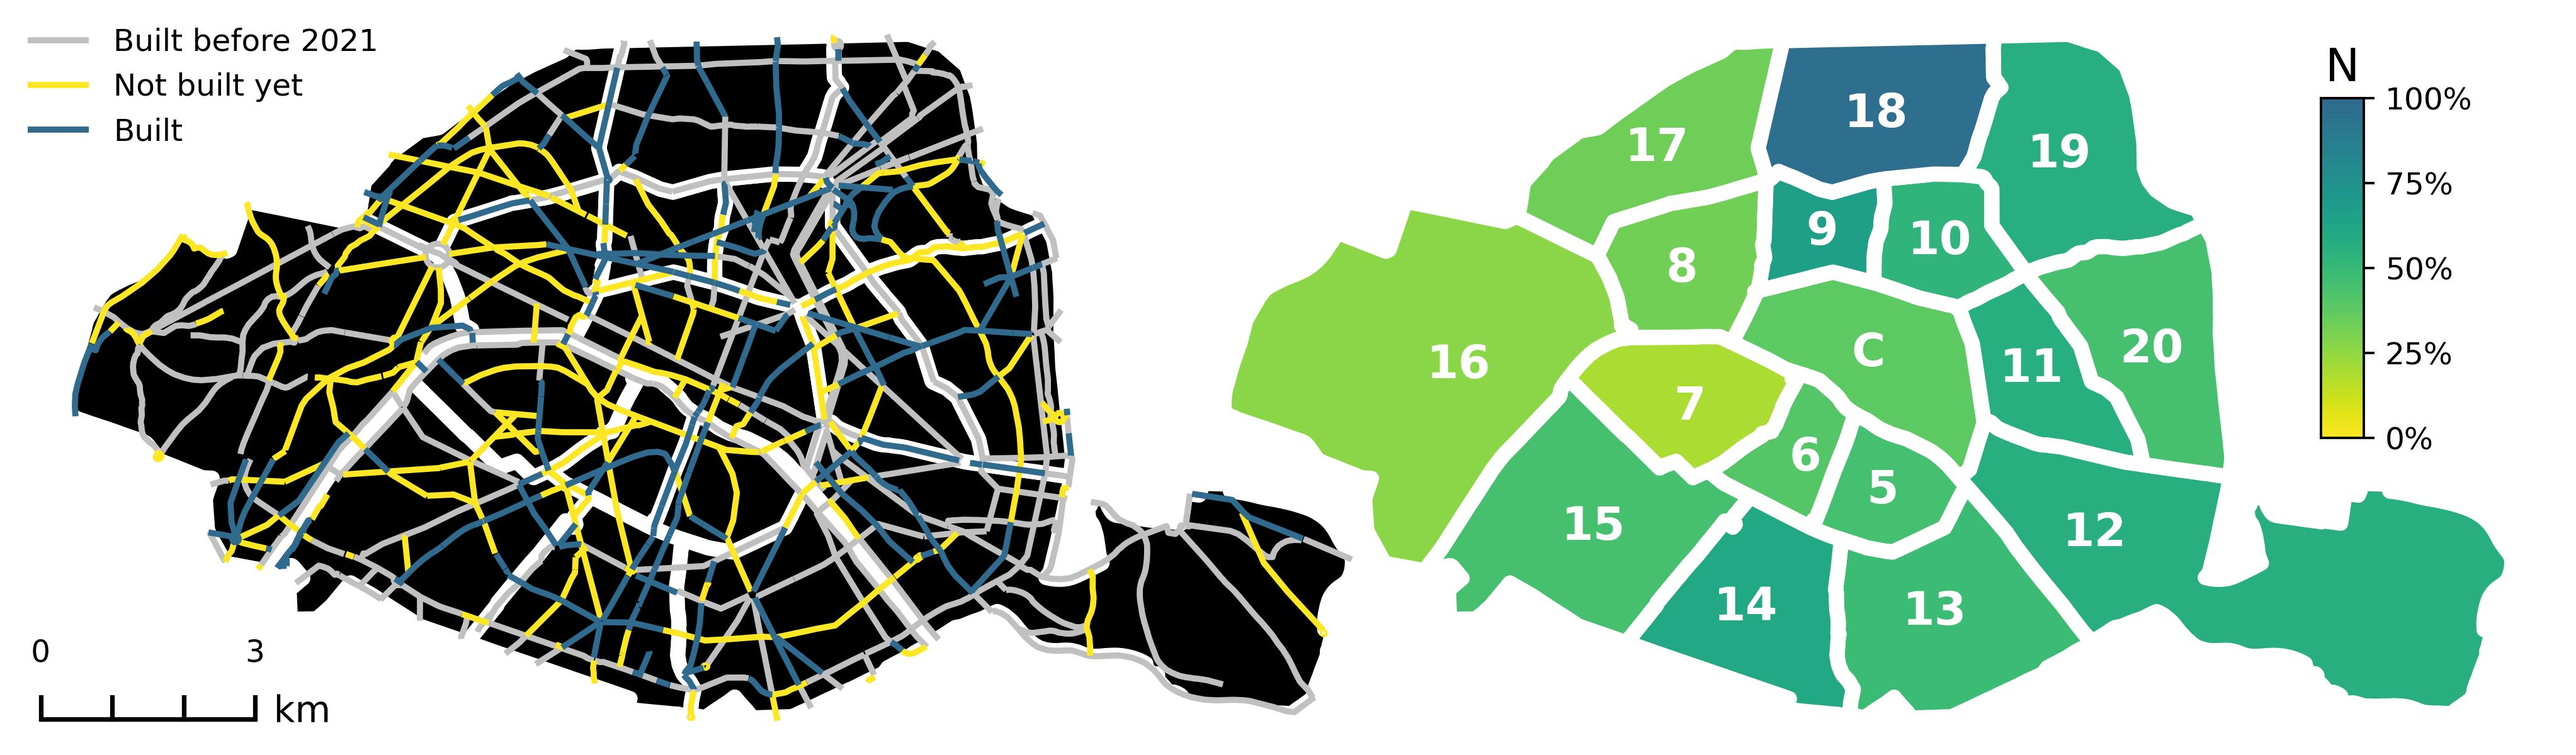
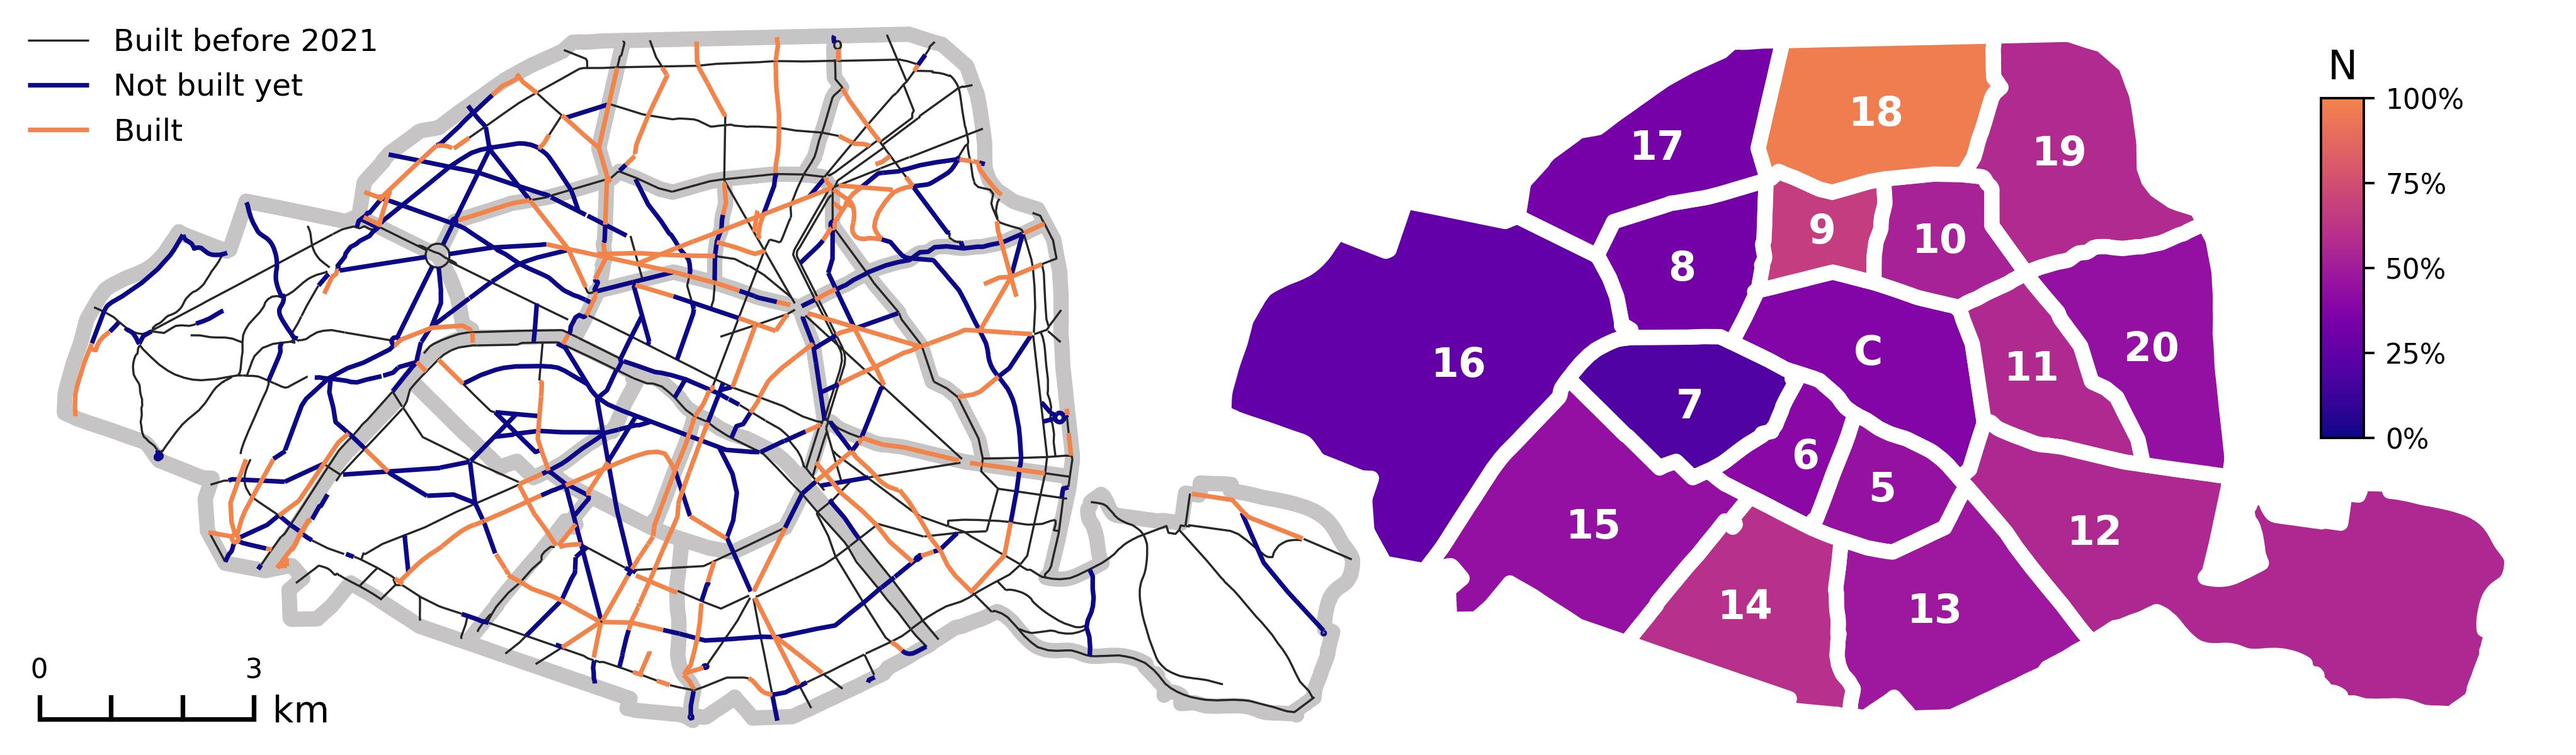
Update color codes for bikeplan and map position for scatterplot

diff --git a/scripts/Ea_plot_factor_delays.py b/scripts/Ea_plot_factor_delays.py
@@ -1,0 +1,252 @@
+# -*- coding: utf-8 -*-
+"""
+Plot results.
+"""
+
+import json
+import numpy as np
+import matplotlib as mpl
+import matplotlib.pyplot as plt
+import matplotlib.ticker as mtick
+import geopandas as gpd
+import statsmodels.api as sm
+
+FOLDEROOTS = "./data/processed/"
+FOLDERPLOT = "./plots/"
+INSET_NUMBER_SIZE = 6
+MAIN_NUMBER_SIZE = 7
+XLIM = 0.7
+SIZE_DOTS = 120
+
+
+def main():
+    with open("./scripts/E_plot_factor_delays.json", "r") as f:
+        plot_params = json.load(f)
+    for key in plot_params["rcparams"]:
+        mpl.rcParams[key] = plot_params["rcparams"][key]
+    gdf_arr = gpd.read_file(FOLDEROOTS + "paris_vote_arr_2020_bikenet.gpkg")
+    mean_acc = gdf_arr["length_accomplished_share"].mean()
+    fig, axs = plt.subplots(
+        2,
+        2,
+        figsize=plot_params["figsize"],
+        height_ratios=[0.71, 0.29],
+    )
+    for idx, column in enumerate(plot_params["column"]):
+        # Estimate linear regression
+        model = sm.OLS(
+            gdf_arr["length_accomplished_share"],
+            sm.add_constant(gdf_arr[column].values),
+        ).fit(cov_type="HC3")
+        # Plot arrondissements
+        axs[0][idx].spines[["right", "top"]].set_visible(False)
+        axs[0][idx].scatter(
+            gdf_arr[column],
+            gdf_arr["length_accomplished_share"],
+            s=SIZE_DOTS,
+            color=plot_params["color"][idx],
+            zorder=2,
+        )
+        # Add arrondissement number for each dot
+        if column == "Right_wing_share":
+            axs[0][idx].spines[["left"]].set_visible(False)
+            axs[0][idx].set_yticks([])
+            for i in range(len(gdf_arr)):
+                if gdf_arr["NUM_ARROND"].values[i] == 1:
+                    axs[0][idx].annotate(
+                        "C",
+                        (
+                            gdf_arr[column].values[i],
+                            gdf_arr["length_accomplished_share"].values[i],
+                        ),
+                        fontsize=MAIN_NUMBER_SIZE,
+                        fontweight=900,
+                        color="white",
+                        ha="center",
+                        va="center",
+                    )
+                elif gdf_arr["NUM_ARROND"].values[i] == 11:
+                    axs[0][idx].annotate(
+                        gdf_arr["NUM_ARROND"].values[i],
+                        (
+                            gdf_arr[column].values[i],
+                            gdf_arr["length_accomplished_share"].values[i],
+                        ),
+                        textcoords="offset points",
+                        xytext=(21, -18),
+                        arrowprops=dict(arrowstyle="-"),
+                        fontweight=900,
+                        fontsize=MAIN_NUMBER_SIZE,
+                        color="black",
+                        ha="center",
+                        va="center",
+                    )
+                elif gdf_arr["NUM_ARROND"].values[i] == 19:
+                    axs[0][idx].annotate(
+                        gdf_arr["NUM_ARROND"].values[i],
+                        (
+                            gdf_arr[column].values[i],
+                            gdf_arr["length_accomplished_share"].values[i],
+                        ),
+                        textcoords="offset points",
+                        xytext=(-22, 17),
+                        arrowprops=dict(arrowstyle="-"),
+                        fontweight=900,
+                        fontsize=MAIN_NUMBER_SIZE,
+                        color="black",
+                        ha="center",
+                        va="center",
+                    )
+                else:
+                    axs[0][idx].annotate(
+                        gdf_arr["NUM_ARROND"].values[i],
+                        (
+                            gdf_arr[column].values[i],
+                            gdf_arr["length_accomplished_share"].values[i],
+                        ),
+                        fontweight=900,
+                        fontsize=MAIN_NUMBER_SIZE,
+                        color="white",
+                        ha="center",
+                        va="center",
+                    )
+        else:
+            axs[0][idx].set_ylabel("Share of bicycle lanes accomplished $N$")
+            for i in range(len(gdf_arr)):
+                if gdf_arr["NUM_ARROND"].values[i] == 1:
+                    text = "C"
+                else:
+                    text = gdf_arr["NUM_ARROND"].values[i]
+                axs[0][idx].annotate(
+                    text,
+                    (
+                        gdf_arr[column].values[i],
+                        gdf_arr["length_accomplished_share"].values[i],
+                    ),
+                    fontweight=900,
+                    fontsize=MAIN_NUMBER_SIZE,
+                    color="white",
+                    ha="center",
+                    va="center",
+                )
+        # Add expected value lines
+        axs[0][idx].plot(
+            [-1, 99999],
+            [mean_acc, mean_acc],
+            linestyle="dashed",
+            color="#E1E1E1",
+            zorder=0,
+        )
+        mean_share = gdf_arr[column].mean()
+        axs[0][idx].plot(
+            [mean_share, mean_share],
+            [0, 1],
+            linestyle="dashed",
+            color="#E1E1E1",
+            zorder=0,
+        )
+        xx = np.linspace(
+            gdf_arr[column].min() - 0.05, gdf_arr[column].max() + 0.02, num=100
+        )
+        axs[0][idx].plot(
+            xx,
+            model.params["x1"] * xx + model.params["const"],
+            color="#000000",
+            linewidth=2,
+            zorder=1,
+        )
+
+        axs[0][idx].set_xlabel(plot_params["xlabel"][idx])
+        axs[0][idx].set_xlim([0, XLIM])
+        axs[0][idx].set_ylim([0, 1])
+        axs[0][idx].set_aspect("equal")
+        # Add as an inset the choropleth map of the factor
+        gcax = axs[1][idx].inset_axes([0.82, 0.42, 0.03, 0.45])
+        kwargs = {
+            "vmin": 0,
+            "vmax": XLIM,
+            "legend_kwds": {
+                "cax": gcax,
+                "format": mtick.PercentFormatter(1),
+                "ticks": [0, XLIM / 2, XLIM],
+            },
+        }
+        axs[1][idx].text(
+            x=0.835,
+            y=0.92,
+            transform=axs[1][idx].transAxes,
+            s=plot_params["colorbar_label"][idx],
+            fontsize=10,
+            va="center",
+            ha="center",
+        )
+        gdf_arr.plot(
+            ax=axs[1][idx],
+            column=column,
+            cmap=plot_params["cmap"][idx],
+            legend=True,
+            edgecolor="white",
+            linewidth=2,
+            **kwargs,
+        )
+        axs[1][idx].set_xlim(
+            gdf_arr.geometry.total_bounds[0], gdf_arr.geometry.total_bounds[2]
+        )
+        gcax.tick_params(labelsize=INSET_NUMBER_SIZE)
+        # Add arrondissement number
+        rep_point = gdf_arr.geometry.representative_point()
+        arrs = gdf_arr["NUM_ARROND"].values
+        for i in range(len(gdf_arr)):
+            if arrs[i] == 1:
+                text = "C"
+                xx = rep_point[i].xy[0][0] - 300
+                yy = rep_point[i].xy[1][0] + 300
+            elif arrs[i] == 5:
+                xx = rep_point[i].xy[0][0] - 200
+                yy = rep_point[i].xy[1][0] - 100
+                text = arrs[i]
+            elif arrs[i] == 6:
+                xx = rep_point[i].xy[0][0] + 200
+                yy = rep_point[i].xy[1][0] - 100
+                text = arrs[i]
+            elif arrs[i] == 8:
+                xx = rep_point[i].xy[0][0]
+                yy = rep_point[i].xy[1][0] - 100
+                text = arrs[i]
+            elif arrs[i] == 12:
+                xx = rep_point[i].xy[0][0] - 4000
+                yy = rep_point[i].xy[1][0] + 500
+                text = arrs[i]
+            elif arrs[i] == 13:
+                xx = rep_point[i].xy[0][0] - 200
+                yy = rep_point[i].xy[1][0] - 100
+                text = arrs[i]
+            elif arrs[i] == 15:
+                xx = rep_point[i].xy[0][0] - 100
+                yy = rep_point[i].xy[1][0] - 200
+                text = arrs[i]
+            elif arrs[i] == 16:
+                xx = rep_point[i].xy[0][0] + 900
+                yy = rep_point[i].xy[1][0] + 300
+                text = arrs[i]
+            else:
+                xx = rep_point[i].xy[0][0]
+                yy = rep_point[i].xy[1][0]
+                text = arrs[i]
+            axs[1][idx].text(
+                x=xx,
+                y=yy,
+                s=text,
+                color="white",
+                fontweight="bold",
+                ha="center",
+                va="center",
+                fontsize=MAIN_NUMBER_SIZE,
+            )
+        axs[1][idx].axis("off")
+    fig.subplots_adjust(wspace=-0.35, hspace=0.2)
+    fig.savefig(FOLDERPLOT + "scatterplot_delays.jpeg", bbox_inches="tight")
+
+
+if __name__ == "__main__":
+    main()

diff --git a/scripts/D_plot_bikeplan_roads.py b/scripts/D_plot_bikeplan_roads.py
@@ -21,16 +21,17 @@ STATE_MAP = {
     "Hors Plan Vélo (Embellir)": "Built",
     "Annoncé réalisé": "Built",
 }
-COLORMAP = "viridis_r"
-END_CMAP = 0.66
+COLORMAP = "plasma"
+END_CMAP = 0.7
 STATE_COLOR = {
-    "Built before 2021": "silver",
+    "Built before 2021": "#272727",
     "Not built yet": plt.get_cmap(COLORMAP)(0),
     "Built": plt.get_cmap(COLORMAP)(END_CMAP),
 }
-NUMBER_SIZE = 10
-ARR_SIZE = 15
+NUMBER_SIZE = 9
+ARR_SIZE = 13
 DPI = 350
+LW_BOUNDARIES = 5
 
 
 def main():
@@ -44,18 +45,30 @@ def main():
     fig = plt.figure(figsize=[11.69, 8.27])
     ax_f = fig.add_axes((0, 0, 0.55, 1))
     for state, color in STATE_COLOR.items():
+        if state == "Built before 2021":
+            lw = 0.7
+            ls = "-"
+        else:
+            lw = 1.5
+            ls = "-"
         gdf_bikenet[gdf_bikenet["Etat"] == state].plot(
-            ax=ax_f, color=color, linewidth=2, label=state
+            ax=ax_f, color=color, linewidth=lw, linestyle=ls, label=state
         )
     ax_f.legend(loc="upper left", frameon=False)
-    gdf_arr.plot(ax=ax_f, color="black", edgecolor="white", linewidth=5)
+    gdf_arr.plot(ax=ax_f, color="white", edgecolor="#C6C4C4", linewidth=LW_BOUNDARIES)
     # Add scale bar
     scale_bar(
         ax_f,
         location="lower left",
         style="ticks",
-        bar={"projection": gdf_arr.crs, "unit": "km", "major_mult": 1, "major_div": 3},
-        labels={"style": "first_last", "fontsize": NUMBER_SIZE},
+        bar={
+            "projection": gdf_arr.crs,
+            "unit": "km",
+            "major_mult": 1,
+            "major_div": 3,
+            "height": 0.1,
+        },
+        labels={"style": "first_last", "fontsize": NUMBER_SIZE, "sep": 0.05},
     )
     ax_f.axis("off")
     # Plot choropleth map
@@ -77,7 +90,7 @@ def main():
         cmap=truncate_colormap(plt.get_cmap(COLORMAP), maxval=END_CMAP),
         legend=True,
         edgecolor="white",
-        linewidth=5,
+        linewidth=LW_BOUNDARIES,
         **kwargs,
     )
     # Label colormap

diff --git a/scripts/Eb_plot_factor_delays_inset.py b/scripts/Eb_plot_factor_delays_inset.py
@@ -16,6 +16,8 @@ FOLDEROOTS = "./data/processed/"
 FOLDERPLOT = "./plots/"
 INSET_NUMBER_SIZE = 5
 MAIN_NUMBER_SIZE = 8
+XLIM = 0.7
+SIZE_DOTS = 200
 
 
 def main():
@@ -41,7 +43,7 @@ def main():
         axs[idx].scatter(
             gdf_arr[column],
             gdf_arr["length_accomplished_share"],
-            s=plot_params["s"][idx],
+            s=SIZE_DOTS,
             color=plot_params["color"][idx],
             zorder=2,
         )
@@ -153,20 +155,19 @@ def main():
         )
 
         axs[idx].set_xlabel(plot_params["xlabel"][idx])
-        axs[idx].set_xlim(plot_params["xlim"][idx])
+        axs[idx].set_xlim([0, XLIM])
         axs[idx].set_ylim([0, 1])
         axs[idx].set_aspect("equal")
         # Add as an inset the choropleth map of the factor
         cax = axs[idx].inset_axes([plot_params["inset_x"][idx], 0.65, 0.8, 0.4])
         gcax = cax.inset_axes([0.82, 0.42, 0.03, 0.45])
-        vmax = plot_params["xlim"][idx][-1]
         kwargs = {
             "vmin": 0,
-            "vmax": vmax,
+            "vmax": XLIM,
             "legend_kwds": {
                 "cax": gcax,
                 "format": mtick.PercentFormatter(1),
-                "ticks": [0, vmax / 2, vmax],
+                "ticks": [0, XLIM / 2, XLIM],
             },
         }
         cax.text(
@@ -260,7 +261,7 @@ def main():
             )
         cax.axis("off")
     fig.subplots_adjust(wspace=0.15)
-    fig.savefig(FOLDERPLOT + "scatterplot_delays.jpeg", bbox_inches="tight")
+    fig.savefig(FOLDERPLOT + "scatterplot_delays_inset.jpeg", bbox_inches="tight")
 
 
 if __name__ == "__main__":
